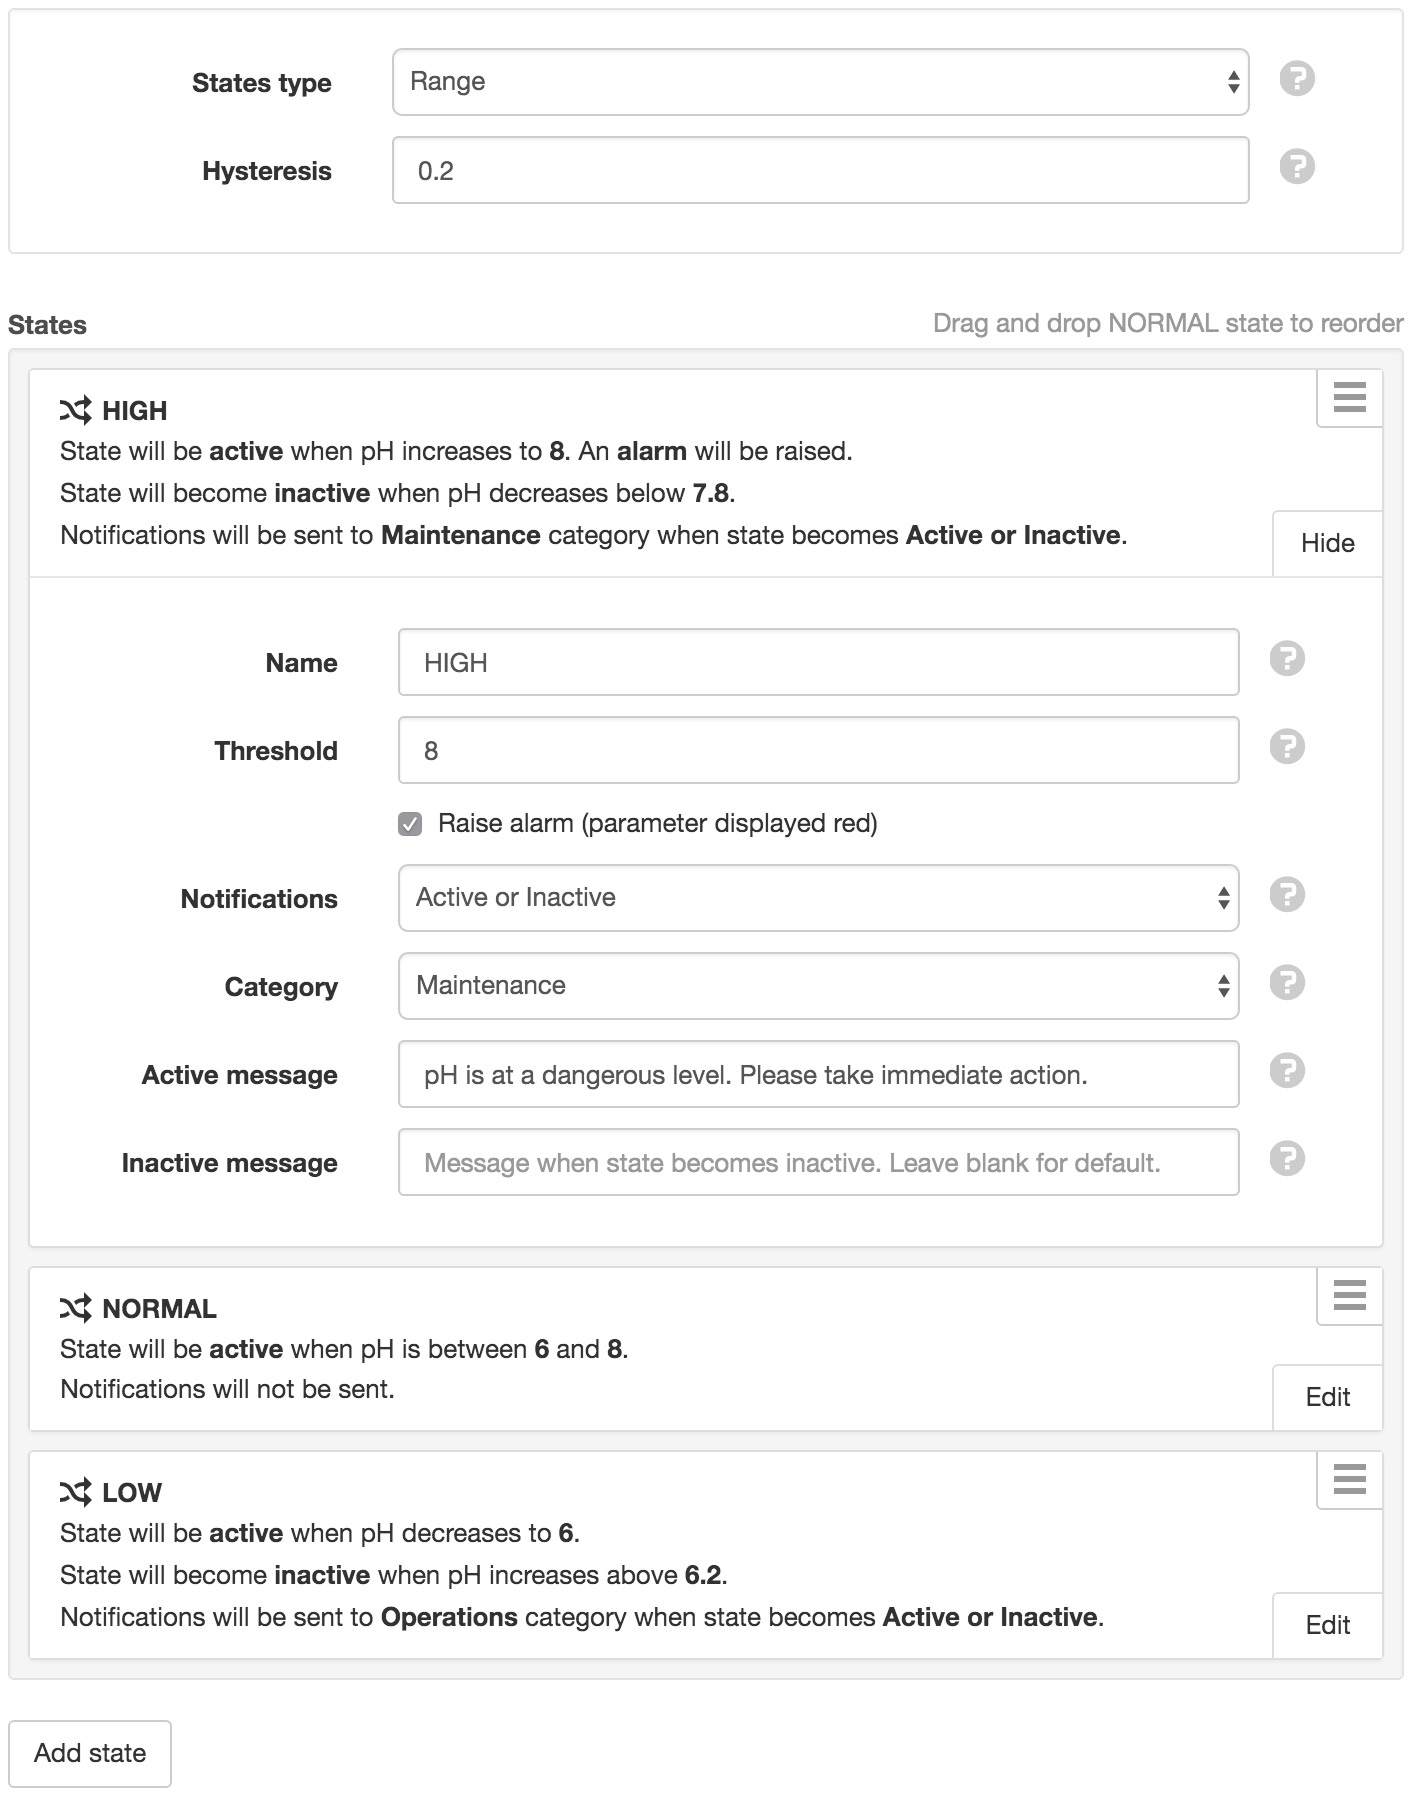
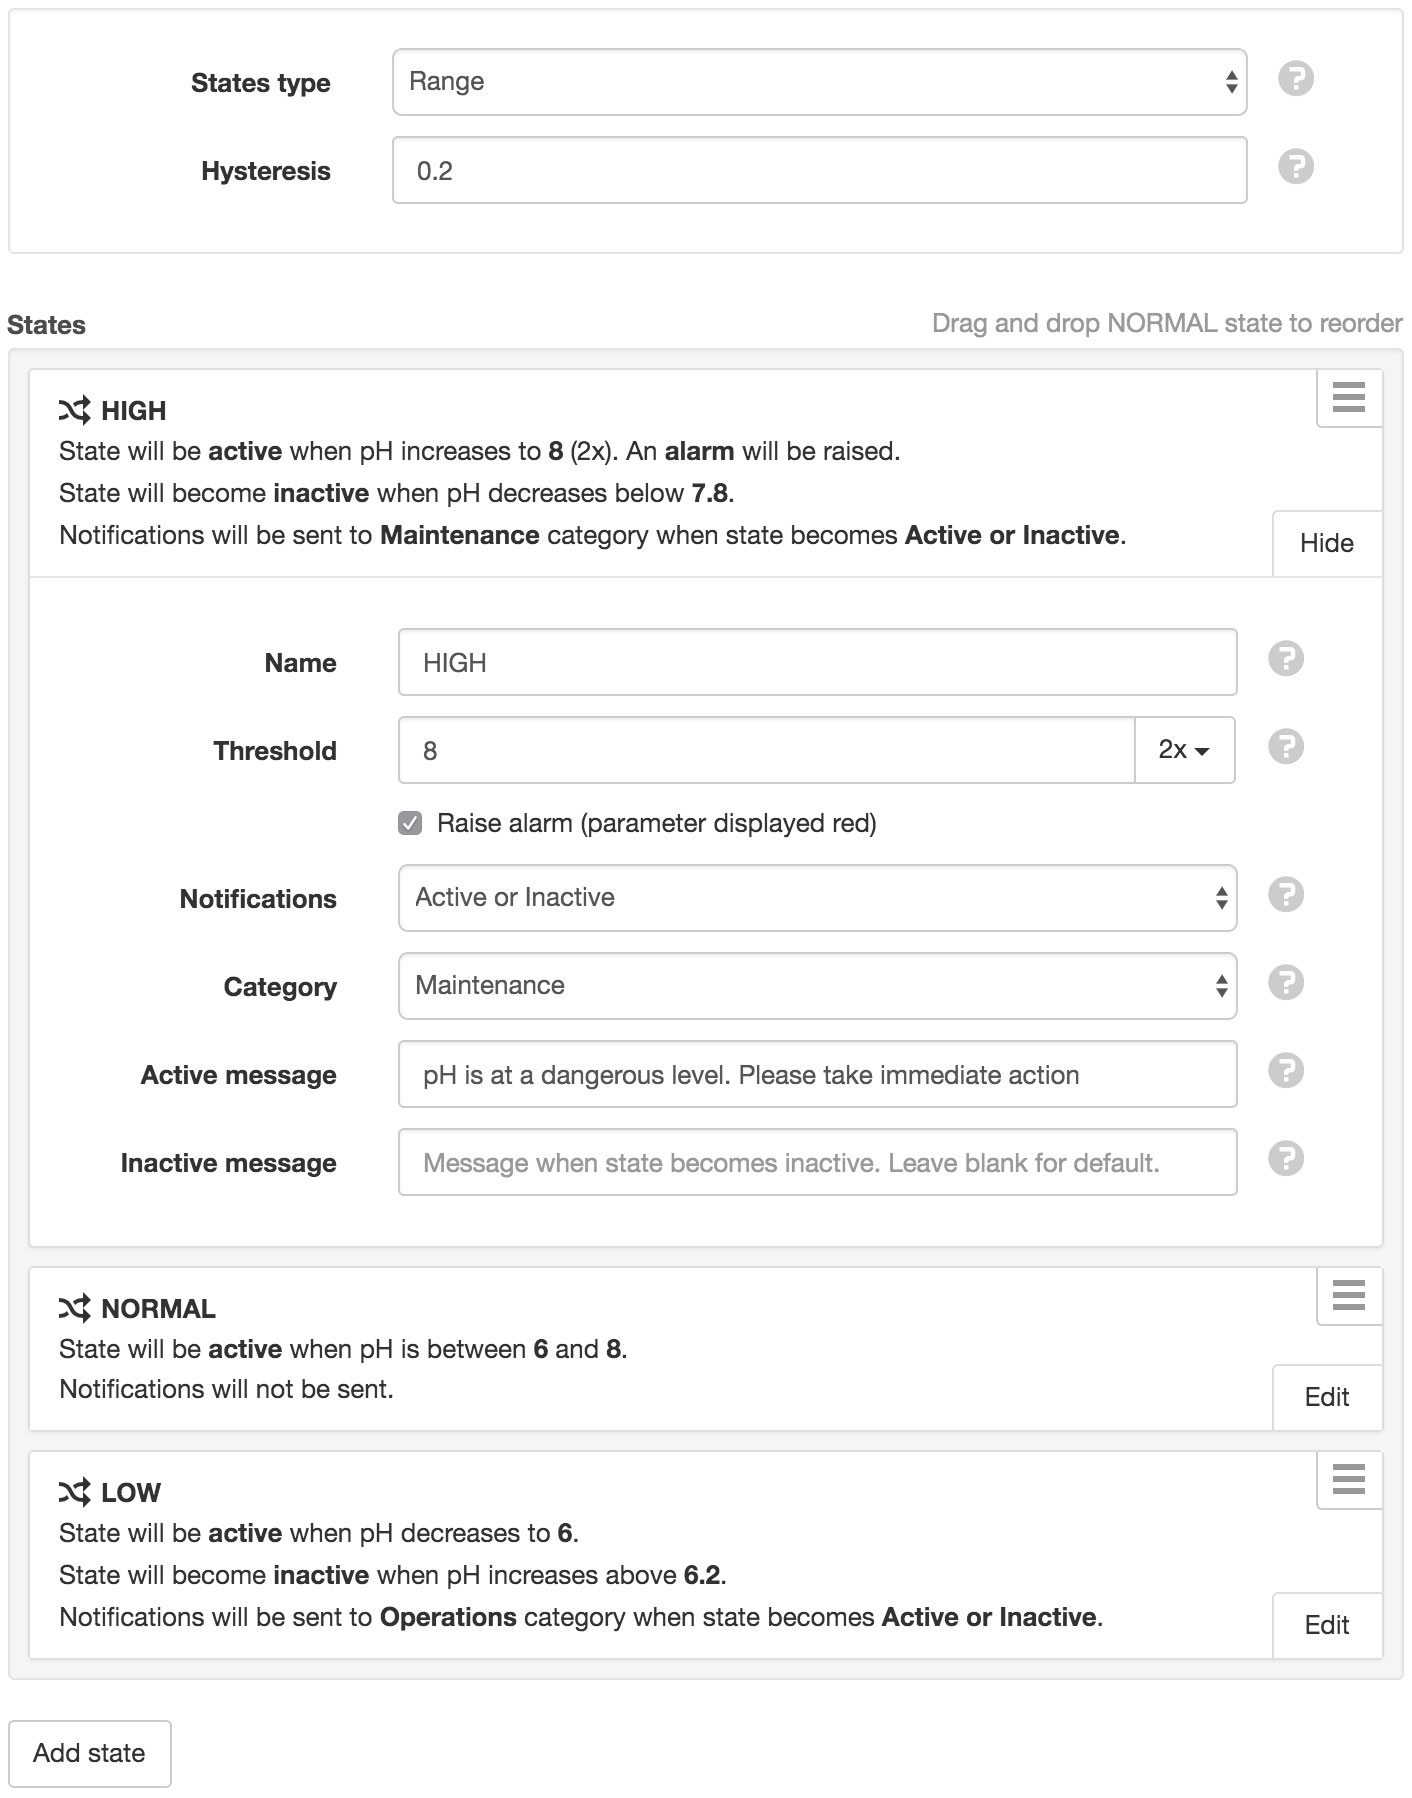
force sphinx 1.4.x to workaround RTD broken search
add state occurrences (repeat values) docs

diff --git a/source/api/resources/nodes.rst b/source/api/resources/nodes.rst
@@ -535,6 +535,9 @@ Refer to :ref:`Parameter states<node-configuration-parameter>` for further infor
     **threshold**                       Variable    *Required*. Unique threshold value for the state. 
                                                     Number parameters require a *Double*. 
                                                     Text parameters require a *String*.
+    **occurrences**                     Int32       *Optional - Default is 1*.
+                                                    Minimum number of repeat values equal or beyond threshold required to
+                                                    trigger state: *1-9*.
     **isAlarm**                         Boolean     *Optional - Default is FALSE*. 
                                                     Flag to indicate if this state should raise an alarm. 
                                                     Not valid for *NORMAL* RANGE state.
@@ -567,6 +570,7 @@ Example replacing DISCRETE states
             {
                 "name": "ON",
                 "threshold": 1,
+                "occurrences": 1,
                 "isAlarm": true,
                 "notify": "ALWAYS",
                 "categoryId": "52969367593a1a3a32000012"
@@ -617,6 +621,7 @@ Example replacing RANGE states
             {
                 "name": "CRITICAL",
                 "threshold": 100,
+                "occurrences": 2,
                 "isAlarm": true,
                 "notify": "ALWAYS",
                 "categoryId": "52969367593a1a3a32000012"

diff --git a/source/topics/nodes/parameter/index.rst b/source/topics/nodes/parameter/index.rst
@@ -193,10 +193,17 @@ Name
     Assign a unique name for each State. The *NORMAL* State (Range States) can not be renamed or removed.
 
 Threshold
-    States positioned above *NORMAL* will be active when the parameter value increases to this threshold. States positioned below *NORMAL* will be active when the parameter value decreases to this threshold. Applies to *Range States* only.
+    States positioned above *NORMAL* will be active when the parameter value increases to this threshold. 
+    States positioned below *NORMAL* will be active when the parameter value decreases to this threshold. 
+    Optionally use the dropdown menu to specify the minimum number of **repeat values** at or beyond threshold required to trigger this state. Default *1x*. 
+    
+    Applies to *Range States* only.
 
 Match
-    Specify the numeric value to match (*Number Parameters*) or text that is contained within the parameter value (*Text Parameters*). Applies to *Discrete States* only.
+    Specify the numeric value to match (*Number Parameters*) or text that is contained within the parameter value (*Text Parameters*). 
+    Optionally use the dropdown menu to specify the minimum number of matching **repeat values** required to trigger this state. Default *1x*. 
+    
+    Applies to *Discrete States* only.
 
 Raise alarm
     Check this option to raise an :ref:`alarm <alarms-and-notifications>` when this state becomes active. 
